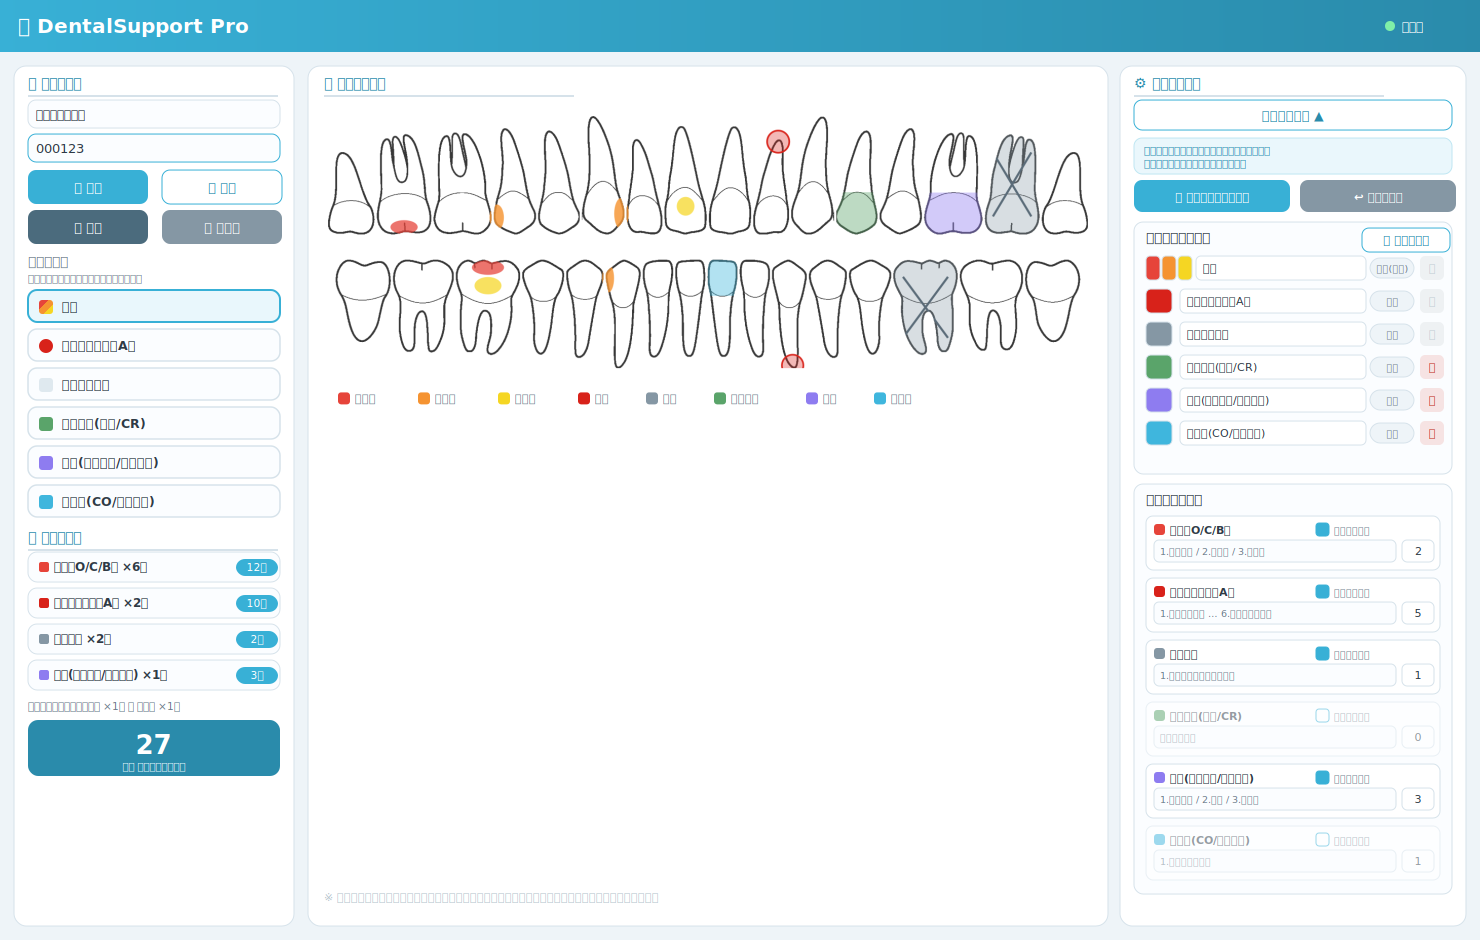
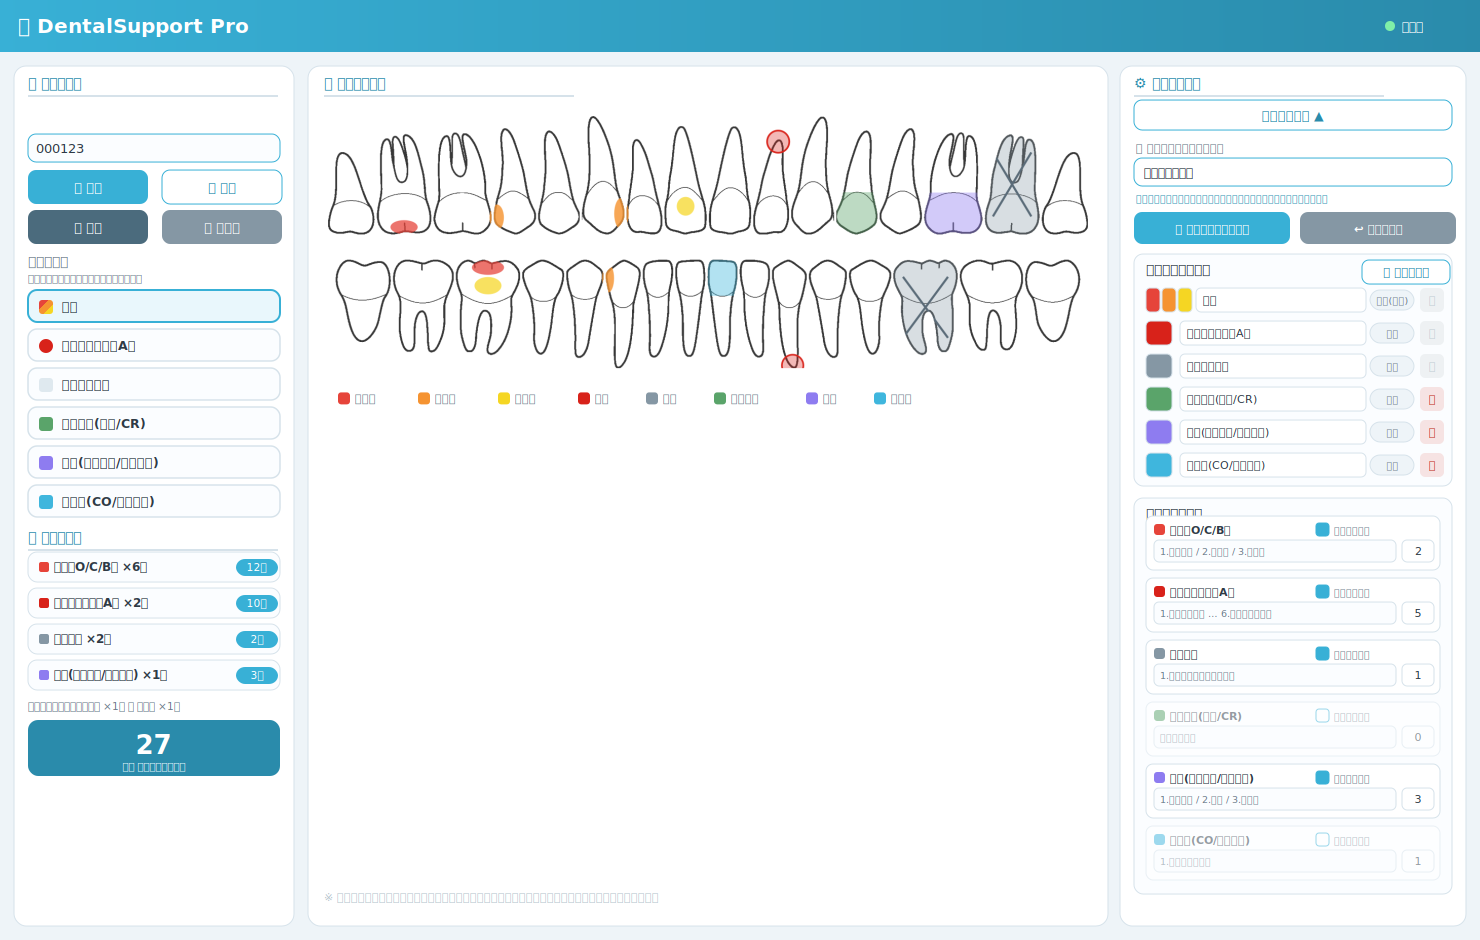
医院名を医院共通設定に移動して固定化
- 医院名入力を左の患者操作パネルから右の「医院共通設定」内へ移動
- 「医院共通設定を保存」で医院名も固定（全患者・印刷に適用）
- プレビュー更新

Changed region(s): [[0.7459, 0.1543, 0.9946, 0.5553], [0.9324, 0.4628, 0.9946, 0.5245], [0.0311, 0.0926, 0.0622, 0.1234]]

diff --git a/index.html b/index.html
@@ -156,9 +156,6 @@
     <h2 class="no-print">🗂 患者・操作</h2>
 
     <div class="no-print">
-      <label class="fld" for="clinicName">医院名（医院共通設定・説明書に印刷）</label>
-      <input type="text" id="clinicName" placeholder="例：○○歯科医院" autocomplete="off" />
-
       <label class="fld" for="patientId">患者番号</label>
       <input type="text" id="patientId" placeholder="例: 000123" autocomplete="off" />
 
@@ -215,6 +212,11 @@
     <button class="btn ghost" id="toggleSettings" style="width:100%;">設定を開く ▼</button>
 
     <div class="settings-body" id="settingsBody">
+      <div class="seg" style="margin-top:0;">
+        <div class="seg-title">🏥 医院名（説明書に印刷）</div>
+        <input type="text" id="clinicName" placeholder="例：○○歯科医院" autocomplete="off" />
+        <p class="hint">ここで設定し「医院共通設定を保存」で固定されます。全患者・印刷に適用。</p>
+      </div>
       <div class="clinic-note">この設定は<b>医院共通</b>です。変更後「💾 医院共通設定を保存」を押すと、この医院の全患者に適用されます（患者データとは別に保存）。</div>
       <div class="btn-row" style="margin-top:0;">
         <button class="btn" id="saveClinicBtn">💾 医院共通設定を保存</button>
